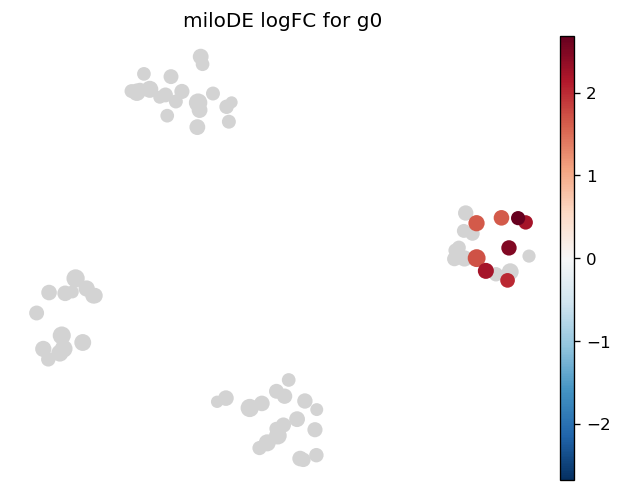
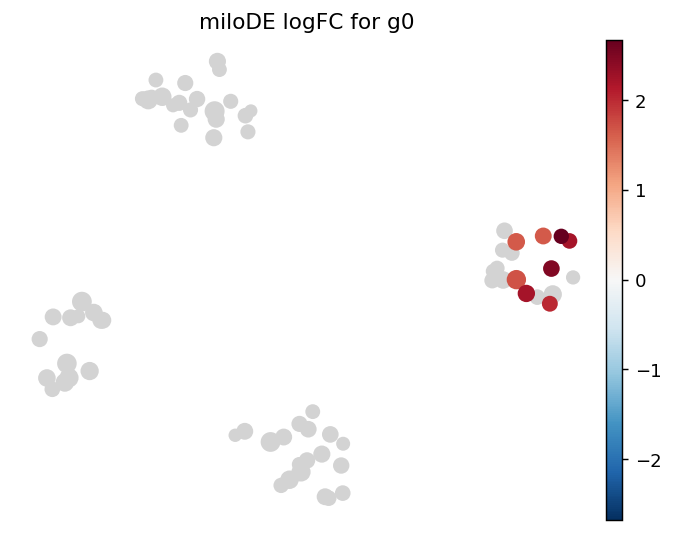
milo: add plot_de_nhood_graph for one-line per-gene DE visualization
Pairs with de_nhoods the same way plot_nhood_graph pairs with da_nhoods:
takes the long DataFrame + a gene name and renders the nhood graph
colored by that gene's logFC, masking nhoods above the spatial-FDR
threshold. The rendering body shared with plot_nhood_graph is factored
into a private _render_nhood_graph helper to avoid duplication.

diff --git a/pertpy/tools/_milo.py b/pertpy/tools/_milo.py
@@ -1112,16 +1112,130 @@ class Milo:
             .. image:: /_static/docstring_previews/milo_nhood_graph.png
         """
         nhood_adata = mdata["milo"].T.copy()
+        return self._render_nhood_graph(
+            nhood_adata,
+            logfc=nhood_adata.obs["logFC"],
+            spatial_fdr=nhood_adata.obs["SpatialFDR"],
+            alpha=alpha,
+            min_logFC=min_logFC,
+            min_size=min_size,
+            plot_edges=plot_edges,
+            title=title,
+            color_map=color_map,
+            palette=palette,
+            ax=ax,
+            return_fig=return_fig,
+            **kwargs,
+        )
 
+    @_doc_params(common_plot_args=doc_common_plot_args)
+    def plot_de_nhood_graph(  # pragma: no cover # noqa: D417
+        self,
+        mdata: MuData,
+        de_results: pd.DataFrame,
+        gene: str,
+        *,
+        alpha: float = 0.1,
+        min_logFC: float = 0,
+        min_size: int = 10,
+        plot_edges: bool = False,
+        title: str | None = None,
+        color_map: Colormap | str | None = None,
+        palette: str | Sequence[str] | None = None,
+        ax: Axes | None = None,
+        return_fig: bool = False,
+        **kwargs,
+    ) -> Figure | None:
+        """Visualize per-neighbourhood DE logFC of a single gene from `de_nhoods` results.
+
+        Pairs with `de_nhoods` the same way `plot_nhood_graph` pairs with `da_nhoods`.
+        Uses the same embedding (`build_nhood_graph` must have been run) and colors nhoods by `log_fc`, masking those with `pval_corrected_across_nhoods > alpha`.
+
+        Args:
+            mdata: MuData with `build_nhood_graph` already run.
+            de_results: Long DataFrame returned by `de_nhoods`.
+            gene: Gene to plot; must appear in `de_results["variable"]`.
+            alpha: Significance threshold on `pval_corrected_across_nhoods`.
+            min_logFC: Minimum absolute log fold-change to color a nhood.
+            min_size: Multiplier on `Nhood_size` for the node radius.
+            plot_edges: Whether to draw nhood overlap edges.
+            title: Plot title; defaults to `miloDE logFC for <gene>`.
+            {common_plot_args}
+            **kwargs: Forwarded to `scanpy.pl.embedding`.
+
+        Examples:
+            >>> import pertpy as pt
+            >>> import scanpy as sc
+            >>> adata = pt.dt.bhattacherjee()
+            >>> milo = pt.tl.Milo()
+            >>> mdata = milo.load(adata)
+            >>> sc.pp.neighbors(mdata["rna"])
+            >>> sc.tl.umap(mdata["rna"])
+            >>> milo.make_nhoods(mdata["rna"])
+            >>> mdata = milo.count_nhoods(mdata, sample_col="orig.ident")
+            >>> milo.build_nhood_graph(mdata)
+            >>> de = milo.de_nhoods(
+            ...     mdata,
+            ...     design="~label",
+            ...     column="label",
+            ...     baseline="control",
+            ...     group_to_compare="treated",
+            ...     layer="counts",
+            ... )
+            >>> milo.plot_de_nhood_graph(mdata, de, gene="CD4")
+
+        Preview:
+            .. image:: /_static/docstring_previews/milo_de_nhoods_nhood_graph.png
+        """
+        g = de_results.loc[de_results["variable"] == gene]
+        if g.empty:
+            raise KeyError(f"Gene {gene!r} not found in de_results['variable'].")
+        g = g.set_index("nhood")
+        nhood_adata = mdata["milo"].T.copy()
+        logfc = g["log_fc"].reindex(nhood_adata.obs_names).to_numpy(dtype=float)
+        spatial_fdr = g["pval_corrected_across_nhoods"].reindex(nhood_adata.obs_names).to_numpy(dtype=float)
+        return self._render_nhood_graph(
+            nhood_adata,
+            logfc=pd.Series(logfc, index=nhood_adata.obs_names),
+            spatial_fdr=pd.Series(spatial_fdr, index=nhood_adata.obs_names),
+            alpha=alpha,
+            min_logFC=min_logFC,
+            min_size=min_size,
+            plot_edges=plot_edges,
+            title=title if title is not None else f"miloDE logFC for {gene}",
+            color_map=color_map,
+            palette=palette,
+            ax=ax,
+            return_fig=return_fig,
+            **kwargs,
+        )
+
+    def _render_nhood_graph(
+        self,
+        nhood_adata: AnnData,
+        *,
+        logfc: pd.Series,
+        spatial_fdr: pd.Series,
+        alpha: float,
+        min_logFC: float,
+        min_size: int,
+        plot_edges: bool,
+        title: str,
+        color_map,
+        palette,
+        ax,
+        return_fig: bool,
+        **kwargs,
+    ) -> Figure | None:
         if "Nhood_size" not in nhood_adata.obs.columns:
             raise KeyError(
-                'Cannot find "Nhood_size" column in adata.uns["nhood_adata"].obs -- \
-                    please run milopy.utils.build_nhood_graph(adata)'
+                'Cannot find "Nhood_size" column in adata.uns["nhood_adata"].obs -- '
+                "please run milo.build_nhood_graph(mdata) first"
             )
 
-        nhood_adata.obs["graph_color"] = nhood_adata.obs["logFC"]
-        nhood_adata.obs.loc[nhood_adata.obs["SpatialFDR"] > alpha, "graph_color"] = np.nan
-        nhood_adata.obs["abs_logFC"] = abs(nhood_adata.obs["logFC"])
+        nhood_adata.obs["graph_color"] = logfc
+        nhood_adata.obs.loc[spatial_fdr > alpha, "graph_color"] = np.nan
+        nhood_adata.obs["abs_logFC"] = logfc.abs()
         nhood_adata.obs.loc[nhood_adata.obs["abs_logFC"] < min_logFC, "graph_color"] = np.nan
 
         # Plotting order - extreme logFC on top
@@ -1151,7 +1265,6 @@ class Milo:
             show=False,
             **kwargs,
         )
-
         if return_fig:
             return fig
         plt.show()

diff --git a/tests/tools/test_milo.py b/tests/tools/test_milo.py
@@ -323,6 +323,31 @@ def test_de_nhoods_planted_signal(de_nhoods_mdata, milo):
     assert np.median(lfc) > 0
 
 
+def test_plot_de_nhood_graph(de_nhoods_mdata, milo):
+    if find_spec("pydeseq2") is None:
+        pytest.skip("pydeseq2 not available")
+    import matplotlib
+
+    matplotlib.use("Agg")
+    mdata = de_nhoods_mdata.copy()
+    milo.build_nhood_graph(mdata)
+    de = milo.de_nhoods(
+        mdata,
+        design="~condition",
+        column="condition",
+        baseline="ConditionA",
+        group_to_compare="ConditionB",
+        layer="counts",
+        min_n_cells_per_sample=2,
+        min_count=1,
+    )
+    g = mdata["rna"].uns["de_gene"]
+    fig = milo.plot_de_nhood_graph(mdata, de, gene=g, return_fig=True)
+    assert fig is not None
+    with pytest.raises(KeyError):
+        milo.plot_de_nhood_graph(mdata, de, gene="not_a_real_gene")
+
+
 def test_de_nhoods_statsmodels_runs(de_nhoods_mdata, milo):
     mdata = de_nhoods_mdata.copy()
     de = milo.de_nhoods(